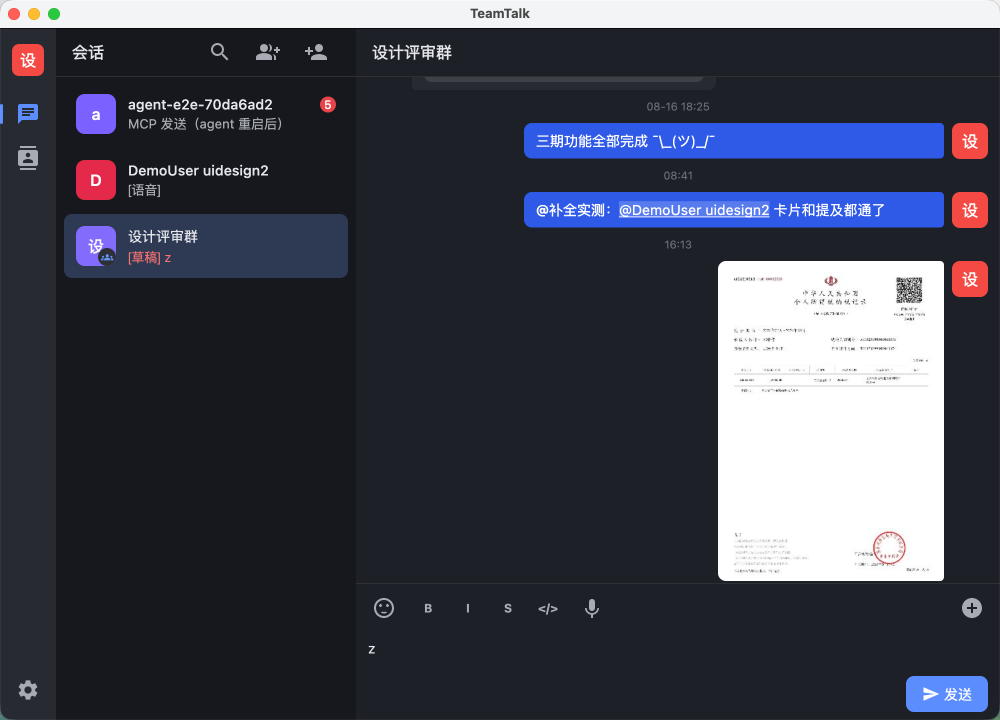
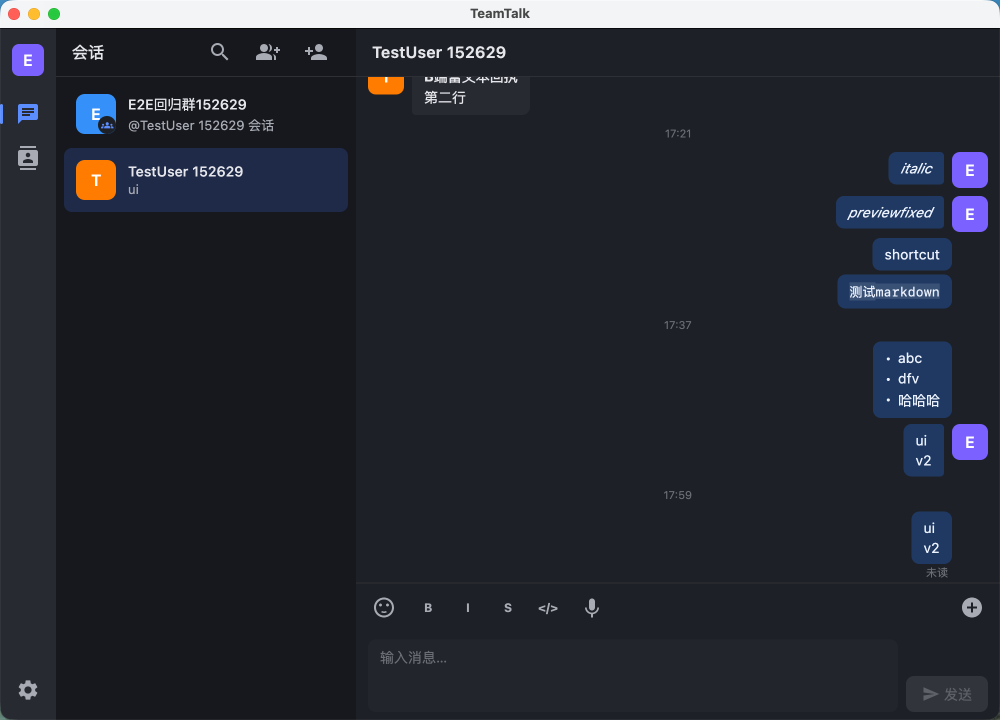
refactor: soften and compact chat bubbles

diff --git a/app/src/commonMain/kotlin/com/virjar/tk/ui/screen/ChatScreen.kt b/app/src/commonMain/kotlin/com/virjar/tk/ui/screen/ChatScreen.kt
@@ -609,50 +609,60 @@ fun ChatPanel(
                         }
                     } else {
                         // WYSIWYG 富文本编辑区：所见即所得（粗体实时渲染），导出走 toMarkdown
-                        Box(modifier = Modifier.weight(1f)) {
-                            BasicRichTextEditor(
-                                state = richState,
-                                modifier = Modifier
-                                    .fillMaxWidth()
-                                    .heightIn(min = 72.dp, max = 200.dp)
-                                    .testTag("chat.input")
-                                    .focusRequester(inputFocus)
-                                    .onPreviewKeyEvent { event ->
-                                        if (event.type != KeyEventType.KeyDown) return@onPreviewKeyEvent false
-                                        val command = event.isMetaPressed || event.isCtrlPressed
-                                        when {
-                                            // 富文本编辑器默认 Enter 换行；显式快捷键才发送。
-                                            event.key == Key.Enter && command -> {
-                                                sendAction()
-                                                true
+                        Surface(
+                            modifier = Modifier.weight(1f),
+                            shape = MaterialTheme.shapes.small,
+                            color = MaterialTheme.colorScheme.surfaceVariant.copy(alpha = 0.55f),
+                        ) {
+                            Box {
+                                BasicRichTextEditor(
+                                    state = richState,
+                                    modifier = Modifier
+                                        .fillMaxWidth()
+                                        .heightIn(min = 72.dp, max = 200.dp)
+                                        .testTag("chat.input")
+                                        .focusRequester(inputFocus)
+                                        .onPreviewKeyEvent { event ->
+                                            if (event.type != KeyEventType.KeyDown) return@onPreviewKeyEvent false
+                                            val command = event.isMetaPressed || event.isCtrlPressed
+                                            when {
+                                                // 富文本编辑器默认 Enter 换行；显式快捷键才发送。
+                                                event.key == Key.Enter && command -> {
+                                                    sendAction()
+                                                    true
+                                                }
+                                                event.key == Key.B && command -> {
+                                                    toggleBold()
+                                                    true
+                                                }
+                                                event.key == Key.I && command -> {
+                                                    toggleItalic()
+                                                    true
+                                                }
+                                                else -> false
                                             }
-                                            event.key == Key.B && command -> {
-                                                toggleBold()
-                                                true
-                                            }
-                                            event.key == Key.I && command -> {
-                                                toggleItalic()
-                                                true
-                                            }
-                                            else -> false
                                         }
-                                    },
-                                textStyle = MaterialTheme.typography.bodyMedium.copy(
-                                    color = androidx.compose.material3.LocalContentColor.current,
-                                ),
-                                minLines = 3,
-                                maxLines = 8,
-                                cursorBrush = androidx.compose.ui.graphics.SolidColor(MaterialTheme.colorScheme.primary),
-                                keyboardOptions = KeyboardOptions(imeAction = ImeAction.Default),
-                            )
-                            // 占位符（编辑器空态时）
-                            if (richState.annotatedString.text.isEmpty()) {
-                                Text(
-                                    if (editingMessage != null) "编辑消息…" else "输入消息…",
-                                    style = MaterialTheme.typography.bodyMedium,
-                                    color = Tk.colors.metaText,
-                                    modifier = Modifier.align(Alignment.CenterStart).testTag("chat.input.hint"),
+                                        .padding(horizontal = Tk.spacing.md, vertical = Tk.spacing.sm),
+                                    textStyle = MaterialTheme.typography.bodyMedium.copy(
+                                        color = androidx.compose.material3.LocalContentColor.current,
+                                    ),
+                                    minLines = 3,
+                                    maxLines = 8,
+                                    cursorBrush = androidx.compose.ui.graphics.SolidColor(MaterialTheme.colorScheme.primary),
+                                    keyboardOptions = KeyboardOptions(imeAction = ImeAction.Default),
                                 )
+                                // 占位符（编辑器空态时）
+                                if (richState.annotatedString.text.isEmpty()) {
+                                    Text(
+                                        if (editingMessage != null) "编辑消息…" else "输入消息…",
+                                        style = MaterialTheme.typography.bodyMedium,
+                                        color = Tk.colors.metaText,
+                                        modifier = Modifier
+                                            .align(Alignment.TopStart)
+                                            .padding(horizontal = Tk.spacing.md, vertical = Tk.spacing.sm)
+                                            .testTag("chat.input.hint"),
+                                    )
+                                }
                             }
                         }
                     }

diff --git a/app/src/commonMain/kotlin/com/virjar/tk/ui/component/rich/MarkdownText.kt b/app/src/commonMain/kotlin/com/virjar/tk/ui/component/rich/MarkdownText.kt
@@ -240,7 +240,7 @@ fun MarkdownText(
                     text = block.spans.toAnnotated(onUrlClick, onMentionClick),
                     style = MaterialTheme.typography.bodyMedium,
                     color = contentColor,
-                    modifier = Modifier.padding(top = topPadding).fillMaxWidth(),
+                    modifier = Modifier.padding(top = topPadding),
                 )
                 is MdBlock.Heading -> Text(
                     text = block.spans.toAnnotated(onUrlClick, onMentionClick),
@@ -250,7 +250,7 @@ fun MarkdownText(
                         else -> MaterialTheme.typography.titleSmall
                     },
                     color = contentColor,
-                    modifier = Modifier.padding(top = topPadding.coerceAtLeast(Tk.spacing.sm)).fillMaxWidth(),
+                    modifier = Modifier.padding(top = topPadding.coerceAtLeast(Tk.spacing.sm)),
                 )
                 is MdBlock.CodeFence -> Row(Modifier.padding(top = topPadding)) {
                     CodeFenceBox(block, contentColor)
@@ -271,7 +271,7 @@ fun MarkdownText(
                                     text = sub.spans.toAnnotated(onUrlClick, onMentionClick),
                                     style = MaterialTheme.typography.bodySmall,
                                     color = contentColor.copy(alpha = 0.85f),
-                                    modifier = Modifier.fillMaxWidth(),
+                                    modifier = Modifier,
                                 )
                             }
                         }
@@ -323,10 +323,10 @@ private fun List<MdSpan>.toAnnotated(
     onUrlClick: ((String) -> Unit)?,
     onMentionClick: ((String) -> Unit)?,
 ): AnnotatedString {
-    // 彩色气泡（自己蓝气泡=白字）上 primary 蓝不可辨：亮色文字时链接/提及改用白色系（F20）
-    val onColoredBubble = LocalContentColor.current.luminance() > 0.5f
-    val linkColor = if (onColoredBubble) Color.White else MaterialTheme.colorScheme.primary
-    val mentionBg = if (onColoredBubble) Color.White.copy(alpha = 0.2f)
+    // 深色表面上的浅色正文不能继续使用 primary 蓝；链接/提及改用白色系（F20）。
+    val onDarkSurface = LocalContentColor.current.luminance() > 0.5f
+    val linkColor = if (onDarkSurface) Color.White else MaterialTheme.colorScheme.onPrimaryContainer
+    val mentionBg = if (onDarkSurface) Color.White.copy(alpha = 0.2f)
     else MaterialTheme.colorScheme.primary.copy(alpha = 0.15f)
     val inlineCodeBg = LocalContentColor.current.copy(alpha = 0.12f)
     return buildAnnotatedString {

diff --git a/app/src/commonTest/kotlin/com/virjar/tk/ui/theme/ThemeTokensTest.kt b/app/src/commonTest/kotlin/com/virjar/tk/ui/theme/ThemeTokensTest.kt
@@ -1,0 +1,40 @@
+package com.virjar.tk.ui.theme
+
+import androidx.compose.ui.graphics.Color
+import kotlin.math.pow
+import kotlin.test.Test
+import kotlin.test.assertEquals
+import kotlin.test.assertNotEquals
+import kotlin.test.assertTrue
+
+class ThemeTokensTest {
+
+    @Test
+    fun `outgoing bubbles use semantic surfaces instead of brand blue`() {
+        assertEquals(Color(0xFFE8F0FF), LightTkColors.bubbleOutgoing)
+        assertEquals(Color(0xFF1D2129), LightTkColors.bubbleOutgoingContent)
+        assertEquals(Color(0xFF203A63), DarkTkColors.bubbleOutgoing)
+        assertEquals(Color(0xFFEDF3FF), DarkTkColors.bubbleOutgoingContent)
+        assertNotEquals(Color(0xFF3370FF), LightTkColors.bubbleOutgoing)
+    }
+
+    @Test
+    fun `outgoing bubble text passes WCAG AA contrast`() {
+        assertTrue(contrastRatio(LightTkColors.bubbleOutgoing, LightTkColors.bubbleOutgoingContent) >= 4.5)
+        assertTrue(contrastRatio(DarkTkColors.bubbleOutgoing, DarkTkColors.bubbleOutgoingContent) >= 4.5)
+    }
+
+    private fun contrastRatio(first: Color, second: Color): Double {
+        val (lighter, darker) = listOf(relativeLuminance(first), relativeLuminance(second))
+            .sortedDescending()
+        return (lighter + 0.05) / (darker + 0.05)
+    }
+
+    private fun relativeLuminance(color: Color): Double =
+        0.2126 * linear(color.red) + 0.7152 * linear(color.green) + 0.0722 * linear(color.blue)
+
+    private fun linear(component: Float): Double {
+        val value = component.toDouble()
+        return if (value <= 0.04045) value / 12.92 else ((value + 0.055) / 1.055).pow(2.4)
+    }
+}

diff --git a/app/src/commonMain/kotlin/com/virjar/tk/ui/screen/MessageBubble.kt b/app/src/commonMain/kotlin/com/virjar/tk/ui/screen/MessageBubble.kt
@@ -22,7 +22,6 @@ import androidx.compose.foundation.layout.Arrangement
 import androidx.compose.foundation.layout.width
 import androidx.compose.ui.Alignment
 import androidx.compose.ui.Modifier
-import androidx.compose.ui.graphics.Color
 import com.virjar.tk.ui.platform.contextLongPress
 import com.virjar.tk.ui.platform.secondaryClick
 import androidx.compose.ui.unit.dp
@@ -61,7 +60,7 @@ internal fun MessageBubble(
     Row(
         modifier = modifier
             .fillMaxWidth()
-            .padding(vertical = if (isContinuation) 1.dp else 2.dp),
+            .padding(vertical = if (isContinuation) Tk.spacing.xs / 2f else Tk.spacing.xs),
         horizontalArrangement = if (isMe) Arrangement.End else Arrangement.Start,
         verticalAlignment = Alignment.Top,
     ) {
@@ -94,7 +93,7 @@ internal fun MessageBubble(
             }
             Surface(
                 color = if (isMe) Tk.colors.bubbleOutgoing else Tk.colors.bubbleIncoming,
-                contentColor = if (isMe) Color.White else MaterialTheme.colorScheme.onSurface,
+                contentColor = if (isMe) Tk.colors.bubbleOutgoingContent else MaterialTheme.colorScheme.onSurface,
                 // 飞书扁平气泡：无阴影无 tonalElevation
                 shape = RoundedCornerShape(
                     topStart = if (!isMe && !isContinuation) 4.dp else 8.dp,

diff --git a/app/src/commonMain/kotlin/com/virjar/tk/ui/theme/Tokens.kt b/app/src/commonMain/kotlin/com/virjar/tk/ui/theme/Tokens.kt
@@ -73,6 +73,7 @@ data class TkColors(
     val divider: Color,
     val bubbleIncoming: Color,
     val bubbleOutgoing: Color,
+    val bubbleOutgoingContent: Color,
     val metaText: Color,
     val secondaryText: Color,
     val online: Color,
@@ -86,7 +87,8 @@ val LightTkColors = TkColors(
     selected = Color(0xFFE1EAFF),
     divider = Color(0xFFE5E6EB),
     bubbleIncoming = Color(0xFFF2F3F5),
-    bubbleOutgoing = Color(0xFF3370FF),
+    bubbleOutgoing = Color(0xFFE8F0FF),
+    bubbleOutgoingContent = Color(0xFF1D2129),
     metaText = Color(0xFF8F959E),
     secondaryText = Color(0xFF646A73),
     online = Color(0xFF34C724),
@@ -100,7 +102,8 @@ val DarkTkColors = TkColors(
     selected = Color(0xFF1E2A47),
     divider = Color(0xFF2E3036),
     bubbleIncoming = Color(0xFF272A31),
-    bubbleOutgoing = Color(0xFF2E5AE8),
+    bubbleOutgoing = Color(0xFF203A63),
+    bubbleOutgoingContent = Color(0xFFEDF3FF),
     metaText = Color(0xFF6B6E75),
     secondaryText = Color(0xFFA8ABB3),
     online = Color(0xFF34C724),

diff --git a/app/src/commonMain/kotlin/com/virjar/tk/ui/component/MessageBodyRenderer.kt b/app/src/commonMain/kotlin/com/virjar/tk/ui/component/MessageBodyRenderer.kt
@@ -80,8 +80,9 @@ fun MessageBodyRenderer(
             waveSeed = abs(body.attachment.path.hashCode()),
             playing = voicePlayback?.playingUrl == body.attachment.path,
             progress = if (voicePlayback?.playingUrl == body.attachment.path) voicePlayback.progress else 0f,
-            // 已播高亮：自己气泡（蓝底）用纯白，对方气泡（灰底）用主色
-            playedColor = if (isMe) Color.White else MaterialTheme.colorScheme.primary,
+            // 已播高亮：自己气泡用容器前景色，对方气泡用主色。
+            playedColor = if (isMe) MaterialTheme.colorScheme.onPrimaryContainer
+            else MaterialTheme.colorScheme.primary,
             onTogglePlay = voicePlayback?.let { vb -> { vb.toggle(body.attachment.path, body.duration) } }
                 ?: onMediaClick?.let { cb -> { cb(message) } },
         )

diff --git a/doc/04-ui-design/components.md b/doc/04-ui-design/components.md
@@ -49,14 +49,16 @@
 [头像36]  ┌──────────────┐                ┌──────────────┐  [头像36]
           │ 消息正文…      │                │ 消息正文…      │
           └──────────────┘                └──────────────┘
-灰底 F2F3F5 · 圆角8/指向角4                蓝底 3370FF · 白字 · 右对齐
+灰底 F2F3F5 · 圆角8/指向角4                浅蓝底 E8F0FF · 深色字 · 右对齐
 ```
 
 - **双方都显示头像**（自己右侧）——原实现自己无头像，群聊中失去对齐锚。
 - 连续消息（同人 5 分钟内）：隐藏头像与昵称行，头像位留空 36dp 保持缩进；指向角恢复 8dp。
 - 群聊对方昵称行：`labelSmall` + `metaText`，时间跟在昵称后（`张三 14:32`）；私聊无昵称行。
 - 气泡内边距：水平 12、垂直 8；文本 `bodyMedium`，最大宽 `bubbleMaxWidth`。
-- 已读回执：仅私聊自己消息显示，气泡右下角外 `✓/✓✓`（11sp，已读 primary/未达 metaText）。群聊不显示（无 per-user 已读，见 placeholders.md §5）。
+- **普通文本按内容收缩**：短消息不得因 Markdown 段落的 `fillMaxWidth` 被撑成长条；代码块/媒体可占用最大宽。
+- 连续消息保留 4dp 视觉间隔，新消息组增大到约 6–8dp，避免多条气泡粘成整块色带。
+- 已读回执：仅私聊自己最后一条已送达消息显示，气泡右下角外使用 11sp 低对比度文字。群聊不显示（无 per-user 已读，见 placeholders.md §5）。
 - 时间分隔：间隔 >5 分钟插入居中 `labelSmall metaText` 纯文本（**去掉灰底胶囊**，飞书是裸文字）。
 - 撤回：居中 `metaText` 裸文字"你/张三 撤回了一条消息"（原文案"消息已撤回"升级为带主语）。
 
@@ -66,7 +68,7 @@
 |------|------|------|
 | 图片/贴纸 | **贴边气泡**（无气泡内边距，媒体即气泡面） | fit-inside 240×320dp，最小边 120dp，圆角由气泡裁剪；无尺寸副标题 |
 | 视频 | 深色 16:9 贴边卡 + 播放键 + 时长角标 | 固定深底(#20242C)；半透明黑(45%)圆形播放按钮 40dp + 白 PlayArrow；右下黑底(65%)白字时长；有服务端缩略图时自动替换底图；点击进画廊窗口内嵌播放器（应用内） |
-| 语音 | **应用内播放卡片**（微信/飞书范式） | 播放/暂停键 18dp + 14 根 3dp 竖条波形（LCG 确定性高度，url 哈希种子）+ 时长；播放中已播条高亮（对方气泡主色/自己气泡纯白）、时长切换「当前/总长」；宽度随时长 64-220dp；播完自动复位。引擎：Desktop 用 compose-media-player 的 native 解码器（AAC/MP3/WAV 全格式，无 surface 纯音频）；Android 包装 MediaPlayer |
+| 语音 | **应用内播放卡片**（微信/飞书范式） | 播放/暂停键 18dp + 14 根 3dp 竖条波形（LCG 确定性高度，url 哈希种子）+ 时长；播放中已播条使用主色/容器前景色高亮、时长切换「当前/总长」；宽度随时长 64-220dp；播完自动复位。引擎：Desktop 用 compose-media-player 的 native 解码器（AAC/MP3/WAV 全格式，无 surface 纯音频）；Android 包装 MediaPlayer |
 | 文件 | 扩展名彩色图标块卡片 | 40dp 圆角方块，扩展名映射色（pdf红/doc蓝/xls绿/ppt橙/压缩橙/图片紫/音视频…默认灰）+ 白色大写扩展名（≤3字符）；文件名 2 行截断 + 大小 metaText；点击走系统打开（文件类允许，媒体类不允许） |
 | 回复 | 竖线引用卡 | 3dp 竖线（contentColor 40%）+ 引用者名 + 截断内容（65%），正文在引用块下方；两种气泡底色下都成立 |
 | 位置/名片/合并转发 | 图标卡片（无平台渲染器 fallback） | InsertDriveFile 图标 + 标题 + 副标题，不再用 emoji |
@@ -77,12 +79,12 @@
 ```
 ┌────────────────────────────────────────────┐
 │ ↩ 回复 张三：你好…（主色细字 + 取消）          │  ← 回复/编辑上下文条
+│ 😊  B I S </>  🎙                ⊕          │  ← 工具行
 │ ┌──────────────────────────────────┐       │
-│ │ 所见即所得编辑区（min 3 行，富文本）      │  发送  │  ← 高 36 圆角 8
+│ │ 所见即所得编辑区（min 3 行，富文本）      │  发送  │  ← 浅灰填充、圆角 8
 │ └──────────────────────────────────┘       │
-│ 😊  B I S </>  🎙                ⊕          │  ← 工具行（输入框下方）
 └────────────────────────────────────────────┘
-  白底 + 顶部 divider；Enter 发送（Shift+Enter 换行）
+  白底 + 顶部 divider；Enter 换行，Cmd/Ctrl+Enter 发送
 ```
 
 - 工具行左侧：😊 表情（弹层：常用 emoji 8 列网格，插入光标处后回焦输入框）、
@@ -95,8 +97,8 @@
   （原文不变，发送零转换）。@ 前须为行首/空白（邮箱误触防御）。
 - **/ 指令**：行首 `/`+前缀 → 指令补全层（内置 /shrug /todo /code）；选中回填完整命令；
   发送时展开（/shrug msg → `msg ¯\_(ツ)_/¯`），未注册指令原样透传。
-- 发送判定：含 markdown 特征（mention://、`**`、`~~`、`` ` ``、链接、行首 #/>）→ RICH_TEXT
-  消息（markdown + mentions 侧信道 + plainText），否则 TEXT（老端直读）。
+- 发送判定：所有新文本统一为 RICH_TEXT（普通文本是 Markdown 的自然子集）；
+  Markdown 是唯一事实源，mentions/plainText 由 SDK 生成并在服务端重建。
 
 ### 1.5 导航栏（桌面专用，替代 M3 NavigationRail）
 
@@ -170,7 +172,8 @@ pill（高 16dp，min 宽 16dp），`unreadBadge` 底白字 `labelMedium`，`99+
 | 打开会话 | 单击 | 单击 |
 | 列表项上下文菜单 | **右键** | 长按 |
 | 气泡上下文菜单 | **右键** | 长按 |
-| 发送消息 | Enter（Shift+Enter 换行） | IME Send |
+| 发送消息 | Cmd/Ctrl+Enter，或点击发送 | 点击发送 |
+| 文本换行 | Enter | Enter / IME 换行 |
 | 关闭面板/子窗口 | ESC | 系统返回 |
 | hover 态 | 有（列表/图标/菜单） | 无（API 兼容不触发） |
 

diff --git a/doc/04-ui-design/README.md b/doc/04-ui-design/README.md
@@ -6,8 +6,8 @@
 ## 为什么选飞书
 
 1. **信息密度优先**：IM 是生产力工具，飞书的紧凑布局（13-14px 正文、64dp 会话项）在同等窗口面积下比 Material 默认样式（大触控目标、大留白）多显示约 40% 的会话/消息。
-2. **克制的中性色**：灰阶体系（#F5F6F7/#F2F3F5/#E5E6EB 分层）让内容本身成为视觉主角，品牌蓝只用于交互态和身份标识。项目主题从第一天就是 LarkBlue #3370FF，方向一致。
-3. **桌面优先的交互模型**：三栏布局、hover 态、右键菜单、Enter 发送——正是 Desktop 端当前最缺的。
+2. **克制的中性色**：灰阶体系（#F5F6F7/#F2F3F5/#E5E6EB 分层）让内容本身成为视觉主角。品牌蓝 #3370FF 只用于按钮、焦点和选中等小面积交互态；大面积自己消息改用浅蓝语义表面，避免连续消息形成“蓝墙”。
+3. **桌面优先的交互模型**：三栏布局、hover 态、右键菜单、多行编辑和显式快捷键发送——正是 Desktop 端当前最缺的。
 4. **圆角方形头像**是飞书的强识别特征，与微信/QQ 的圆形头像形成差异。
 
 ## 文档
@@ -35,7 +35,7 @@
 | `screenshots/light-login.png` | 登录窗（已被 §2.3 重排版取代，见 P4 轮） |
 | `screenshots/light-main-empty.png` | 三栏空态：细导航栏 + 会话列表 + Logo 空态 |
 | `screenshots/light-conversation-list.png` | 会话列表：未读徽标/时间戳/群角标/置顶区 |
-| `screenshots/light-chat.png` | 聊天面板：双方头像/指向角气泡/已读水位线/工具行/Enter 发送 |
+| `screenshots/light-chat.png` | 聊天面板：双方头像/内容自适应气泡/已读水位线/多行富文本输入 |
 | `screenshots/light-contacts-grouped.png` | 通讯录：搜索框 + 拼音首字母分组 sticky 头 + 右侧索引条（P4 轮） |
 
 ## 验收基线（2026-08 P4 轮，暗色）
@@ -47,7 +47,7 @@
 |------|------|
 | `screenshots/dark-login.png` | 登录窗（§2.3 无装饰 420×480，纯底卡片） |
 | `screenshots/dark-main-conversations.png` | 三栏：rail #272A31 / 列表 #16181D / 右栏 #1D2026 |
-| `screenshots/dark-chat.png` | 聊天：暗气泡/白字/媒体卡（视频卡恒深底，明暗一致） |
+| `screenshots/dark-chat.png` | 聊天：暗色语义气泡/高对比正文/富文本输入容器 |
 | `screenshots/dark-contacts.png` | 通讯录 |
 | `screenshots/dark-settings.png` | 设置（含「外观」行） |
 | `screenshots/dark-group-detail.png` | 群详情右栏面板 |

diff --git a/doc/04-ui-design/design-tokens.md b/doc/04-ui-design/design-tokens.md
@@ -15,7 +15,8 @@
 | `selected` | `#E1EAFF` | `#1E2A47` | 列表选中项背景 |
 | `divider` | `#E5E6EB` | `#2E3036` | 发丝分隔线 |
 | `bubbleIncoming` | `#F2F3F5` | `#272A31` | 对方消息气泡（无阴影、无描边） |
-| `bubbleOutgoing` | `#3370FF` | `#2E5AE8` | 自己消息气泡 |
+| `bubbleOutgoing` | `#E8F0FF` | `#203A63` | 自己消息气泡；品牌蓝只用于小面积交互元素 |
+| `bubbleOutgoingContent` | `#1D2129` | `#EDF3FF` | 自己消息正文；与气泡对比度约 13.8:1 / 10.2:1 |
 | `metaText` | `#8F959E` | `#6B6E75` | 三级文本：时间戳/占位符/系统提示 |
 | `secondaryText` | `#646A73` | `#A8ABB3` | 二级文本：消息预览/副标题 |
 | `online` | `#34C724` | `#34C724` | 在线状态点 |
@@ -26,7 +27,7 @@
 
 | 角色 | 亮色 | 说明 |
 |------|------|------|
-| `primary` | `#3370FF` | LarkBlue，交互色/自己气泡/选中态文字 |
+| `primary` | `#3370FF` | LarkBlue，按钮、链接、焦点和选中态；不再大面积铺满气泡 |
 | `onPrimary` | `#FFFFFF` | |
 | `primaryContainer` | `#E1EAFF` | 与 `selected` 同值（选中=浅蓝家族） |
 | `background` | `#F5F6FA` | 应用底色（灰，非白） |
@@ -82,7 +83,7 @@
 | `medium` | 12 | 弹窗/大卡片 |
 | pill | `CircleShape` | 徽标/按钮（高度的一半） |
 
-气泡角规则：四角 8dp；非连续消息时，**靠近头像的一角收 4dp**（视觉上"接"头像，替代气泡尾巴）。
+气泡角规则：四角 8dp；非连续消息时，**靠近头像的一角收 4dp**（视觉上"接"头像，替代气泡尾巴）。普通文本气泡按内容宽度收缩，只有代码块、媒体和结构化卡片才使用可用最大宽度。
 
 ## 5. 尺寸（`Tk.dimens`）
 
